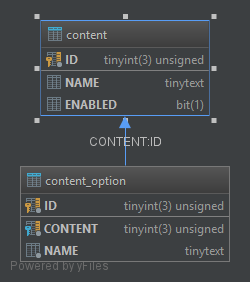
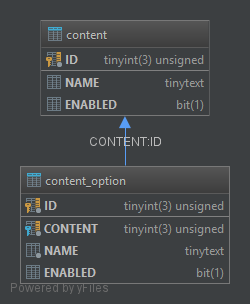
Create the content options

Changed region(s): [[0.056, 0.0284, 0.924, 0.9645]]

diff --git a/lib/css/foe.css b/lib/css/foe.css
@@ -1,1 +1,1 @@
-#FOETOpenButton{position:fixed!important;z-index:10000;right:10px;bottom:25px;cursor:pointer;position:relative;width:72px;height:72px;border:2px solid #bf8443;border-radius:45px}#FOETOpenButton:after{border-radius:49px}#FOETOpenButton:hover:before{border-radius:49px}#FOETOpenButton .InnerBorder1{border-radius:37px}#FOETOpenButton .InnerBorder1:after{border-radius:41px}#FOETOpenButton .InnerBorder1 .InnerBorder2{border-radius:29px}#FOETOpenButton .InnerBorder1 .InnerBorder2:before{border-radius:27px}#FOETOpenButton .InnerBorder1 .InnerBorder2:after{border-radius:33px}#FOETOpenButton:after{content:"";display:block;width:76px;height:76px;border:2px solid #3d2407;top:-4px;left:-4px;position:absolute}#FOETOpenButton:hover:before{content:"";display:block;background:rgba(255,255,255,.175);width:80px;height:80px;top:-4px;left:-4px;position:absolute;z-index:10001}#FOETOpenButton .InnerBorder1{position:relative;width:64px;height:64px;top:2px;left:2px;border:2px solid #6a401f}#FOETOpenButton .InnerBorder1:after{content:"";display:block;width:68px;height:68px;border:2px solid #885328;top:-4px;left:-4px;position:absolute}#FOETOpenButton .InnerBorder1 .InnerBorder2{position:relative;width:56px;height:56px;top:2px;left:2px;border:2px solid #261802}#FOETOpenButton .InnerBorder1 .InnerBorder2:before{content:"";display:block;background:#9d7e63;width:100%;height:100%;position:absolute}#FOETOpenButton .InnerBorder1 .InnerBorder2:after{content:"";display:block;width:60px;height:60px;border:2px solid #995f2e;top:-4px;left:-4px;position:absolute}#FOETOpenButton .InnerBorder1 .InnerBorder2 img{display:block;width:48px;height:48px;position:relative;overflow:visible;border:2px solid #97714e;left:2px;top:2px;border-radius:25px}#FOETWindows{font-family:Arial,sans-serif;position:absolute;z-index:10000;width:600px;height:400px;background-image:url(/lib/img/w01-bg.png)}#FOETWindows>div{position:relative;width:580px;left:10px;height:410px;background-image:url(/lib/img/w01-bottom.png);background-repeat:repeat-x;background-position:bottom;background-size:100% 21px}#FOETWindows>div:before{position:absolute;content:"";display:block;width:21px;left:-21px;top:0;height:410px;background-image:url(/lib/img/w01-bottom-left.png);background-repeat:no-repeat;background-position:bottom}#FOETWindows>div:after{position:absolute;content:"";display:block;width:21px;right:-21px;top:0;height:410px;background-image:url(/lib/img/w01-bottom-right.png);background-repeat:no-repeat;background-position:bottom}#FOETWindows>div>h1{position:absolute;top:-22px;width:580px;height:54px;background-image:url(/lib/img/w01-top.png);background-repeat:repeat-x;background-position:top;background-size:100% 54px;color:#f3d6a0;font-size:1.1rem;font-weight:300;line-height:1.1rem;padding:19px 0 0;text-shadow:1px 0 1px #303030,0 1px 1px #303030,-1px 0 1px #303030,0 -1px 1px #303030}#FOETWindows>div>h1:before{position:absolute;content:"";display:block;width:21px;left:-21px;top:0;height:54px;background-image:url(/lib/img/w01-top-left.png);background-repeat:no-repeat;background-position:top}#FOETWindows>div>h1:after{position:absolute;content:"";display:block;width:21px;right:-21px;top:0;height:54px;background-image:url(/lib/img/w01-top-right.png);background-repeat:no-repeat;background-position:top}#FOETWindows>div>h1 span#closeButton{position:absolute;top:18px;right:0;display:block;width:18px;height:18px;background-image:url(https://foefr.innogamescdn.com/assets/shared/gui/chat/chat_0.png);background-position:-210px -226px;background-repeat:no-repeat;cursor:pointer}#FOETWindows>div>h1 span#closeButton:hover{background-position:-230px -226px}#FOETWindows>div>h1 span#closeButton:active{background-position:-250px -224px}#FOETWindows>div>div{position:absolute;width:580px;height:345px;bottom:21px}#FOETWindows>div>div:before{position:absolute;content:"";display:block;width:21px;height:100%;left:-21px;top:0;background-image:url(/lib/img/w01-left.png);background-repeat:repeat-y;background-position:top left;background-size:21px 100%}#FOETWindows>div>div:after{position:absolute;content:"";display:block;width:21px;height:100%;right:-21px;top:0;background-image:url(/lib/img/w01-right.png);background-repeat:repeat-y;background-position:top left;background-size:21px 100%}#FOETWindows>div>div #menu{display:flex}#FOETWindows>div>div #menu>div{flex:1;background-image:url(/lib/img/b01-bg.png);background-repeat:repeat-x;border-radius:4px;padding:3px 0;color:#cdd4e3;text-align:center;cursor:pointer;margin:0 5px;box-shadow:1px 0 2px #000,0 1px 2px #000,-1px 0 2px #000,0 -1px 2px #000;font-size:.9rem;font-weight:700}#FOETWindows>div>div #menu>div:first-child{margin-left:0}#FOETWindows>div>div #menu>div:last-child{margin-right:0}#FOETWindows>div>div #menu>div:hover{background-position:0 -68px}#FOETWindows>div>div #menu>div.active{background-position:0 -34px}#FOETWindows>div>footer{position:absolute;display:none;width:100%;padding:4px 6px;left:-6px;bottom:15px;border-radius:0 0 4px 4px;z-index:10001;border-top:1px solid #000;font-size:.9rem;text-shadow:1px 0 1px #303030,0 1px 1px #303030,-1px 0 1px #303030,0 -1px 1px #303030}#FOETWindows[hidden]{display:none}#FOETWindows.notified>div>footer{display:block;color:#fff}#FOETWindows.notified.info>div>footer{background:#78b2e3}#FOETWindows.notified.success>div>footer{background:#76bd1b}#FOETWindows.notified.warn>div>footer{background:#ce6221}#FOETWindows.notified.error>div>footer{background:#a40000}#FoEToolIndexPage{background-image:url(/lib/img/background.jpg);background-color:#223321}#FoEToolIndexPage *{margin:0;padding:0}#FoEToolIndexPage h1{margin:auto;text-align:center}#FoEToolIndexPage #FOETWindows>div>h1{top:-10px}.textShadow{text-shadow:1px 0 1px #303030,0 1px 1px #303030,-1px 0 1px #303030,0 -1px 1px #303030}
+#FOETOpenButton{position:fixed!important;z-index:10000;right:10px;bottom:25px;cursor:pointer;position:relative;width:72px;height:72px;border:2px solid #bf8443;border-radius:45px}#FOETOpenButton:after{border-radius:49px}#FOETOpenButton:hover:before{border-radius:49px}#FOETOpenButton .InnerBorder1{border-radius:37px}#FOETOpenButton .InnerBorder1:after{border-radius:41px}#FOETOpenButton .InnerBorder1 .InnerBorder2{border-radius:29px}#FOETOpenButton .InnerBorder1 .InnerBorder2:before{border-radius:27px}#FOETOpenButton .InnerBorder1 .InnerBorder2:after{border-radius:33px}#FOETOpenButton:after{content:"";display:block;width:76px;height:76px;border:2px solid #3d2407;top:-4px;left:-4px;position:absolute}#FOETOpenButton:hover:before{content:"";display:block;background:rgba(255,255,255,.175);width:80px;height:80px;top:-4px;left:-4px;position:absolute;z-index:10001}#FOETOpenButton .InnerBorder1{position:relative;width:64px;height:64px;top:2px;left:2px;border:2px solid #6a401f}#FOETOpenButton .InnerBorder1:after{content:"";display:block;width:68px;height:68px;border:2px solid #885328;top:-4px;left:-4px;position:absolute}#FOETOpenButton .InnerBorder1 .InnerBorder2{position:relative;width:56px;height:56px;top:2px;left:2px;border:2px solid #261802}#FOETOpenButton .InnerBorder1 .InnerBorder2:before{content:"";display:block;background:#9d7e63;width:100%;height:100%;position:absolute}#FOETOpenButton .InnerBorder1 .InnerBorder2:after{content:"";display:block;width:60px;height:60px;border:2px solid #995f2e;top:-4px;left:-4px;position:absolute}#FOETOpenButton .InnerBorder1 .InnerBorder2 img{display:block;width:48px;height:48px;position:relative;overflow:visible;border:2px solid #97714e;left:2px;top:2px;border-radius:25px}#FOETWindows{font-family:Arial,sans-serif;position:absolute;z-index:10000;width:600px;height:400px;background-image:url(/lib/img/w01-bg.png)}#FOETWindows>div{position:relative;width:580px;left:10px;height:410px;background-image:url(/lib/img/w01-bottom.png);background-repeat:repeat-x;background-position:bottom;background-size:100% 21px}#FOETWindows>div:before{position:absolute;content:"";display:block;width:21px;left:-21px;top:0;height:410px;background-image:url(/lib/img/w01-bottom-left.png);background-repeat:no-repeat;background-position:bottom}#FOETWindows>div:after{position:absolute;content:"";display:block;width:21px;right:-21px;top:0;height:410px;background-image:url(/lib/img/w01-bottom-right.png);background-repeat:no-repeat;background-position:bottom}#FOETWindows>div>h1{position:absolute;top:-22px;width:580px;height:54px;background-image:url(/lib/img/w01-top.png);background-repeat:repeat-x;background-position:top;background-size:100% 54px;color:#f3d6a0;font-size:1.1rem;font-weight:300;line-height:1.1rem;padding:19px 0 0;text-shadow:1px 0 1px #303030,0 1px 1px #303030,-1px 0 1px #303030,0 -1px 1px #303030}#FOETWindows>div>h1:before{position:absolute;content:"";display:block;width:21px;left:-21px;top:0;height:54px;background-image:url(/lib/img/w01-top-left.png);background-repeat:no-repeat;background-position:top}#FOETWindows>div>h1:after{position:absolute;content:"";display:block;width:21px;right:-21px;top:0;height:54px;background-image:url(/lib/img/w01-top-right.png);background-repeat:no-repeat;background-position:top}#FOETWindows>div>h1 span#closeButton{position:absolute;top:18px;right:0;display:block;width:18px;height:18px;background-image:url(https://foefr.innogamescdn.com/assets/shared/gui/chat/chat_0.png);background-position:-210px -226px;background-repeat:no-repeat;cursor:pointer}#FOETWindows>div>h1 span#closeButton:hover{background-position:-230px -226px}#FOETWindows>div>h1 span#closeButton:active{background-position:-250px -224px}#FOETWindows>div>div{position:absolute;width:580px;height:345px;bottom:21px}#FOETWindows>div>div:before{position:absolute;content:"";display:block;width:21px;height:100%;left:-21px;top:0;background-image:url(/lib/img/w01-left.png);background-repeat:repeat-y;background-position:top left;background-size:21px 100%}#FOETWindows>div>div:after{position:absolute;content:"";display:block;width:21px;height:100%;right:-21px;top:0;background-image:url(/lib/img/w01-right.png);background-repeat:repeat-y;background-position:top left;background-size:21px 100%}#FOETWindows>div>div #menu{display:flex;height:22px}#FOETWindows>div>div #menu>div{flex:1;background-image:url(/lib/img/b01-bg.png);background-repeat:repeat-x;border-radius:4px;padding:3px 0;color:#cdd4e3;text-align:center;cursor:pointer;margin:0 5px;box-shadow:1px 0 2px #000,0 1px 2px #000,-1px 0 2px #000,0 -1px 2px #000;font-size:.9rem;font-weight:700}#FOETWindows>div>div #menu>div:first-child{margin-left:0}#FOETWindows>div>div #menu>div:last-child{margin-right:0}#FOETWindows>div>div #menu>div:hover{background-position:0 -68px}#FOETWindows>div>div #menu>div.active{background-position:0 -34px}#FOETWindows>div>div #content{height:calc(100% - 22px - 8px);margin-top:5px}#FOETWindows>div>div #content.options{display:flex;flex-wrap:wrap;overflow:auto;overflow:-moz-scrollbars-none;-ms-overflow-style:none;align-content:flex-start}#FOETWindows>div>div #content.options::-webkit-scrollbar{width:0}#FOETWindows>div>div #content.options .contentOption{display:flex;align-items:center;background:#6E4C31C8;width:calc(50% - 5px - 2px);height:3rem;min-height:0;cursor:pointer;border-radius:4px;box-shadow:1px 0 2px #000,0 1px 2px #000,-1px 0 2px #000,0 -1px 2px #000;font-family:Book Antiqua,serif;text-shadow:2px 2px #000;color:#efdba6}#FOETWindows>div>div #content.options .contentOption:nth-child(odd){margin:5px 5px 5px 2px}#FOETWindows>div>div #content.options .contentOption:nth-child(even){margin:5px 0 5px 5px}#FOETWindows>div>div #content.options .contentOption span{display:inline-block;width:100%;text-align:center}#FOETWindows>div>div #content.options .contentOption:hover{background:#955e32C8}#FOETWindows>div>footer{position:absolute;display:none;width:100%;padding:4px 6px;left:-6px;bottom:15px;border-radius:0 0 4px 4px;z-index:10001;border-top:1px solid #000;font-size:.9rem;text-shadow:1px 0 1px #303030,0 1px 1px #303030,-1px 0 1px #303030,0 -1px 1px #303030}#FOETWindows[hidden]{display:none}#FOETWindows.notified>div>footer{display:block;color:#fff}#FOETWindows.notified.info>div>footer{background:#78b2e3}#FOETWindows.notified.success>div>footer{background:#76bd1b}#FOETWindows.notified.warn>div>footer{background:#ce6221}#FOETWindows.notified.error>div>footer{background:#a40000}#FoEToolIndexPage{background-image:url(/lib/img/background.jpg);background-color:#223321}#FoEToolIndexPage *{margin:0;padding:0}#FoEToolIndexPage h1{margin:auto;text-align:center}#FoEToolIndexPage #FOETWindows>div>h1{top:-10px}.textShadow{text-shadow:1px 0 1px #303030,0 1px 1px #303030,-1px 0 1px #303030,0 -1px 1px #303030}

diff --git a/lib/js/foetool.js b/lib/js/foetool.js
@@ -167,6 +167,29 @@ function FOETool(){
 
                 // Memorize generated popup
                 self._HTMLElement.windows = new self.HTML().compose(windows);
+            },
+
+            /**
+             * Create the contentOptions
+             */
+            contentOptions: function(contentId) {
+                let content = self.windows().getContent();
+                let options = [];
+
+                content.innerHTML = '';
+
+                self.res.contentOptions.map(function(option) {
+                   if (option.CONTENT === contentId) options.push(option);
+                });
+
+                options.map(function(option) { //<div class="contentOption"><span>VIKING</span></div>
+                    console.log('appendchild', content, option);
+                    content.appendChild(new self.HTML().compose({
+                        classList: ['contentOption'], children: [
+                            {name: 'span', properties: {textContent: self.texts[option.NAME]}}
+                        ]
+                    }));
+                });
             }
         };
     };
@@ -371,6 +394,27 @@ function FOETool(){
             },
 
             /**
+             * Return the windows body element.
+             *
+             * @returns {Element} Windows body element.
+             */
+            getContent: function() {
+                return self._HTMLElement.windows.querySelector('#content');
+            },
+
+            /**
+             * Remove all classes apply on the #content element.
+             * Purpose of classes on this element is to define behavior.
+             */
+            removeContentClass: function() {
+                let content = self.windows().getContent();
+
+                content.classList.forEach(function(classe) {
+                    this.classList.remove(classe);
+                }.bind(content));
+            },
+
+            /**
              * @returns {HTMLElement}  Return the Windows HTMLElement.
              */
             self: function() {
@@ -401,10 +445,20 @@ function FOETool(){
             /**
              * Make the requested content.
              *
-             * @param content
+             * @param {string} content  Name of the content we request to set in the windows body.
+             * @param {string} type     Type of content we request to set in the windows body.
              */
-            setContent: function(content) {
-                console.log("setContent for", content)
+            setContent: function(content, type) {
+                let contentElmt = self.windows().getContent();
+
+                self.windows().removeContentClass();
+
+                switch (type) {
+                    case 'option':
+                        contentElmt.classList.add('options');
+                        self.build().contentOptions(self.res.content[self.indexes.content[content]]['ID']);
+                        break
+                }
             },
 
             /**
@@ -419,7 +473,11 @@ function FOETool(){
                 self._HTMLElement.windows.querySelector(`#${content}`).classList.add('active');
                 self.ls().set('content', content);
                 self.windows().setTitle(self.texts[content]);
-                self.windows().setContent(content);
+                self.windows().setContent(content, 'option');
+            },
+
+            selectOption: function(option) {
+
             },
 
             /**

diff --git a/lib/less/foe.less b/lib/less/foe.less
@@ -9,6 +9,8 @@
 @windowsHeaderHeight: 54px;
 @windowsNotifHeight: 32px;
 
+@menuHeight: 22px;
+
 @titleColor: #f3d6a0;
 @textColor: #dcae58;
 @keywordColor: #dcae58;
@@ -180,6 +182,7 @@
 
             #menu {
                 display: flex;
+                height: @menuHeight;
 
                 & > div {
                     flex: 1;
@@ -210,7 +213,54 @@
                 }
             }
             #content {
+                height: calc(~'100% - @{menuHeight} - 8px');
+                margin-top: 5px;
 
+                &.options {
+                    display: flex;
+                    flex-wrap: wrap;
+                    overflow: auto;
+                    overflow: -moz-scrollbars-none;
+                    -ms-overflow-style: none;
+                    align-content: flex-start;
+
+                    &::-webkit-scrollbar {
+                        width: 0;
+                    }
+
+                    .contentOption {
+                        display: flex;
+                        align-items: center;
+                        background: #6E4C31C8;
+                        width: calc(~'50% - 5px - 2px');
+                        height: 3rem;
+                        min-height: 0;
+                        cursor: pointer;
+                        border-radius: 4px;
+                        box-shadow: 1px 0 2px black, 0 1px 2px black, -1px 0 2px black, 0 -1px 2px black;
+                        font-family: Book Antiqua, serif;
+                        text-shadow: 2px 2px #000000;
+                        color: #efdba6;
+
+                        &:nth-child(odd) {
+                            margin: 5px 5px 5px 2px;
+
+                        }
+                        &:nth-child(even) {
+                            margin: 5px 0 5px 5px;
+                        }
+
+                        span {
+                            display: inline-block;
+                            width: 100%;
+                            text-align: center;
+                        }
+
+                        &:hover {
+                            background: #955e32C8;
+                        }
+                    }
+                }
             }
         }
         & > footer {

diff --git a/iface/getResources.php b/iface/getResources.php
@@ -41,7 +41,7 @@ try {
 
 // Load Content Options from database
 try {
-    $stmt = $pdo->prepare('SELECT * FROM content_option');
+    $stmt = $pdo->prepare('SELECT * FROM content_option WHERE ENABLED = 1');
     $stmt->execute();
     $resources['contentOptions'] = $stmt->fetchAll(PDO::FETCH_ASSOC);
 } catch(PDOException $err){
